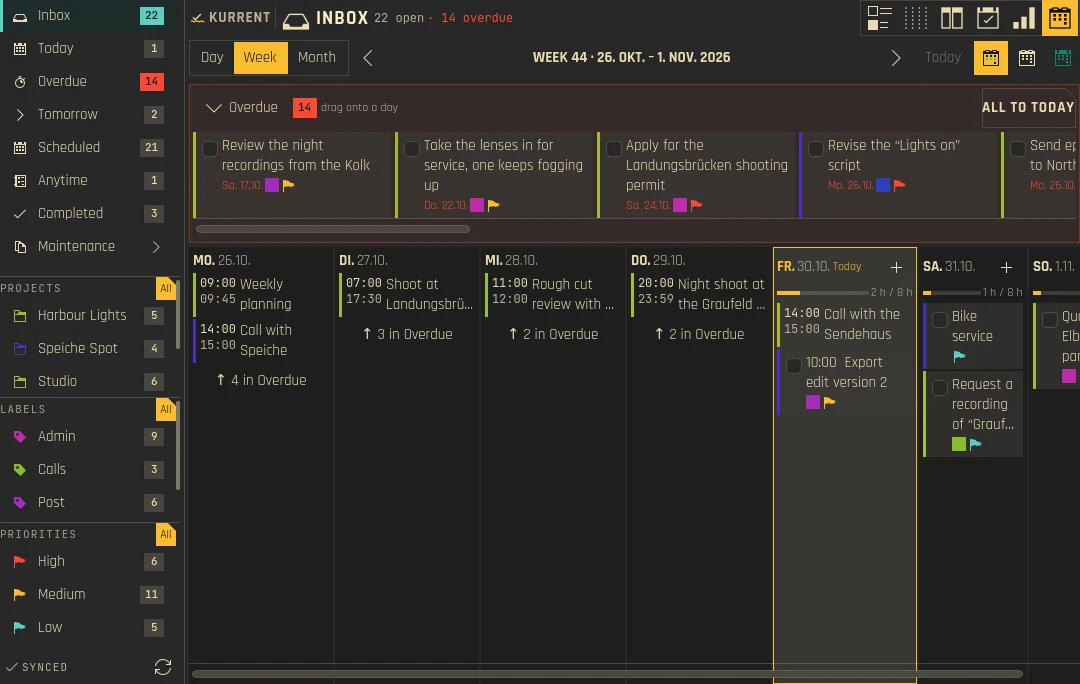
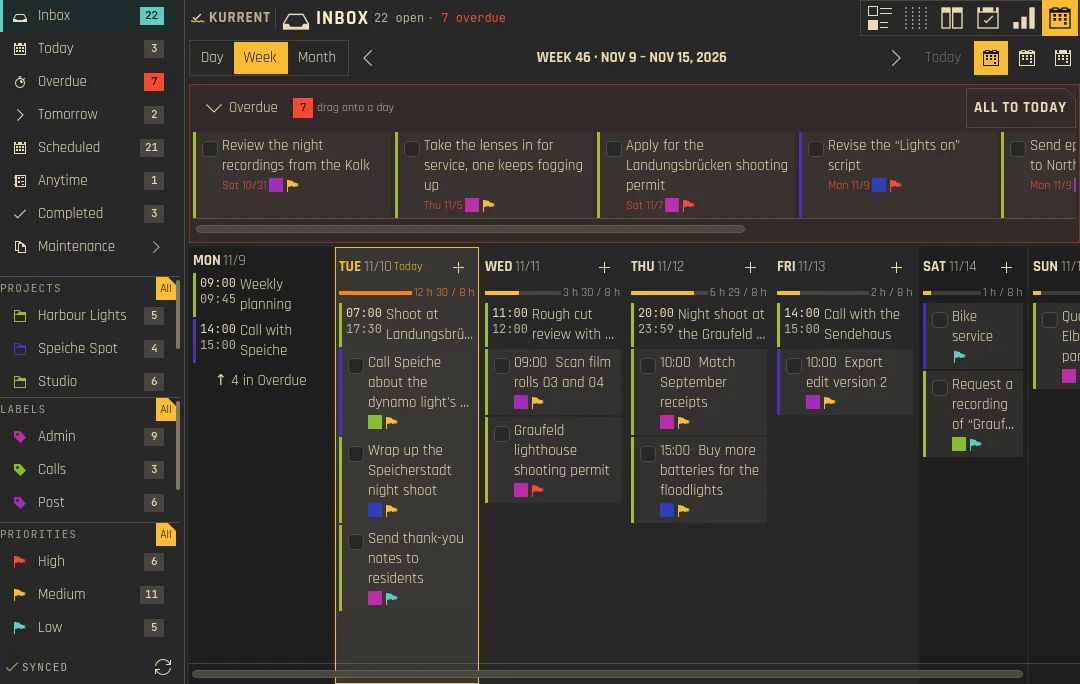
Release 0.6.0
Version 0.6.0 in CMake and metadata.json, changelog section, landing page
entry with a week screenshot and a rebuild-time chart, 0.3.1 moved into
the older releases, footer v0.6.0.

Screenshots retaken for the release. The demo now sets LC_ALL per
language: dates follow the locale, not LANGUAGE, so the English shots
showed German dates on a German machine.

diff --git a/docs/index.html b/docs/index.html
@@ -144,6 +144,30 @@
   <h2 lang="en">Changes</h2><h2 lang="de">Änderungen</h2>
   <p lang="en">What each release brought, newest first. Every release adds an entry here and the same notes on the release page.</p><p lang="de">Was jede Version gebracht hat, die neueste zuerst. Jede Version bekommt hier einen Eintrag und dieselben Notizen auf der Release-Seite.</p>
   <ol class="changelog">
+    <li class="release" id="v0.6.0">
+      <div class="release-head"><b class="release-version">0.6.0</b><time datetime="2026-11-10"><span lang="en">10 Nov 2026</span><span lang="de">10. Nov. 2026</span></time></div>
+      <div class="release-body">
+        <p class="release-lead"><span lang="en">Recurring tasks join the Agenda: drag them to another day like any other task. Dates now read in your language's order, large task lists react about twice as fast, and the terminal client comes with the download.</span><span lang="de">Wiederkehrende Aufgaben gehören jetzt zur Agenda: Du ziehst sie wie jede andere Aufgabe auf einen anderen Tag. Daten stehen in der Reihenfolge deiner Sprache, große Aufgabenlisten reagieren etwa doppelt so schnell, und der Terminal-Client ist im Download dabei.</span></p>
+        <div class="release-group" data-kind="new"><h3><span lang="en">New</span><span lang="de">Neu</span></h3><ul>
+          <li><span lang="en">Agenda, Week and Month: recurring tasks can be dragged to another day too, and "All to today" takes them along (one undo brings them all back). Only this occurrence moves; the series keeps its rule, and when you check the task off, the next occurrence follows the original day. The inspector's Today, Tomorrow and Next week and the Day view do the same for a recurring task; its time of day stays the series' time.</span><span lang="de">Agenda, Woche und Monat: Auch wiederkehrende Aufgaben lassen sich auf einen anderen Tag ziehen, und „Alle auf heute“ nimmt sie mit (ein Rückgängig holt alle zurück). Verschoben wird nur dieses Vorkommen; die Serie behält ihre Regel, und beim Abhaken richtet sich das nächste Vorkommen nach dem ursprünglichen Tag. „Heute“, „Morgen“ und „Nächste Woche“ im Inspektor und die Tagesansicht machen es bei wiederkehrenden Aufgaben genauso; die Uhrzeit bleibt die der Serie.</span></li>
+        </ul></div>
+        <div class="release-group" data-kind="improved"><h3><span lang="en">Improved</span><span lang="de">Verbessert</span></h3><ul>
+          <li><span lang="en"><code>kurrent-tui</code> now comes with the prebuilt download, so the one-line installer sets it up too; before, only source builds had it.</span><span lang="de"><code>kurrent-tui</code> ist jetzt im fertigen Download enthalten, der Einzeiler installiert ihn also mit; vorher hatten ihn nur Quellbuilds.</span></li>
+          <li><span lang="en">The undo button's tooltip ("Undo edit of …") is translated into all five languages; it was always English.</span><span lang="de">Der Tooltip des Rückgängig-Knopfs („Bearbeiten von … rückgängig machen“) ist in alle fünf Sprachen übersetzt; er war immer Englisch.</span></li>
+          <li><span lang="en">Large task lists react faster: rebuilding the list after a view switch, a filter or a search takes about half as long, and the sidebar counts no longer hold up the interface.</span><span lang="de">Große Aufgabenlisten reagieren schneller: Nach einem Ansichtswechsel, einem Filter oder einer Suche ist die Liste in etwa der halben Zeit neu aufgebaut, und die Zähler in der Seitenleiste halten die Oberfläche nicht mehr auf.</span></li>
+        </ul></div>
+        <div class="release-group" data-kind="fixed"><h3><span lang="en">Fixed</span><span lang="de">Behoben</span></h3><ul>
+          <li><span lang="en">A list could keep showing an old view or an old search: a change made while the list was still being rebuilt was dropped, and the busy indicator stayed on.</span><span lang="de">Eine Liste konnte eine alte Ansicht oder eine alte Suche weiter zeigen: Eine Änderung, die kam, während die Liste noch neu aufgebaut wurde, ging verloren, und die Ladeanzeige blieb an.</span></li>
+          <li><span lang="en">Recurring tasks: checking off an all-day series could put the next occurrence on the wrong day around a change to or from daylight saving time, and a series edited in KOrganizer could stay on the occurrence you had just checked off. Undo restores a series' dates correctly.</span><span lang="de">Wiederkehrende Aufgaben: Beim Abhaken einer ganztägigen Serie konnte das nächste Vorkommen um die Zeitumstellung herum auf dem falschen Tag landen, und eine in KOrganizer bearbeitete Serie konnte auf dem gerade abgehakten Vorkommen stehen bleiben. Rückgängig stellt die Daten einer Serie richtig wieder her.</span></li>
+          <li><span lang="en">Dates follow your language's order: the Agenda, calendar, heatmap, inspector and the terminal client wrote every date in German order, so English read "Thursday, 29. October" and Japanese "木曜日, 29. 10月"; now "Thursday, October 29" and "10月29日木曜日". Month headings use the month's own name (Russian "октябрь 2026 г.", not "октября"), and short dates put the weekday where your language does.</span><span lang="de">Datumsangaben folgen der Reihenfolge deiner Sprache: Agenda, Kalender, Heatmap, Inspektor und Terminal-Client schrieben jedes Datum in deutscher Reihenfolge, auf Englisch also „Thursday, 29. October“ und auf Japanisch „木曜日, 29. 10月“; jetzt „Thursday, October 29“ und „10月29日木曜日“. Monatsüberschriften nehmen die Grundform des Monats (russisch „октябрь 2026 г.“, nicht „октября“), und kurze Daten stellen den Wochentag dorthin, wo deine Sprache ihn hat.</span></li>
+        </ul></div>
+        <div class="release-shots">
+          <figure><img lang="en" src="shots/release-0.6.0-agenda-week-en.webp" alt="The Agenda week in English: dates in English order, such as Nov 9 – Nov 15 and Mon 11/9" loading="lazy"><img lang="de" src="shots/release-0.6.0-agenda-week-de.webp" alt="Die Agenda-Woche auf Deutsch: Daten in deutscher Reihenfolge, etwa 9. Nov. – 15. Nov. und Mo. 9.11." loading="lazy"><figcaption><span lang="en">Agenda, week: dates in your language's order</span><span lang="de">Agenda, Woche: Daten in der Reihenfolge deiner Sprache</span></figcaption></figure>
+          <figure><svg class="chart" viewBox="0 0 320 150" role="img" aria-label="Milliseconds for 5000 tasks: list rebuild 45 in 0.5.0, 17 in 0.6.0; sidebar counts on the UI thread 9.7 in 0.5.0, 0 in 0.6.0"><line class="grid" x1="118" y1="22" x2="118" y2="118"/><text x="118" y="128" text-anchor="middle">0</text><line class="grid" x1="156" y1="22" x2="156" y2="118"/><text x="156" y="128" text-anchor="middle">10</text><line class="grid" x1="194" y1="22" x2="194" y2="118"/><text x="194" y="128" text-anchor="middle">20</text><line class="grid" x1="232" y1="22" x2="232" y2="118"/><text x="232" y="128" text-anchor="middle">30</text><line class="grid" x1="270" y1="22" x2="270" y2="118"/><text x="270" y="128" text-anchor="middle">40</text><line class="grid" x1="308" y1="22" x2="308" y2="118"/><text x="308" y="128" text-anchor="middle">50</text><rect class="s2" x="118" y="6" width="8" height="8"/><text x="130" y="13">0.5.0</text><rect class="s4" x="178" y="6" width="8" height="8"/><text x="190" y="13">0.6.0</text><text x="112" y="47" text-anchor="end"><tspan lang="en">List rebuild</tspan><tspan lang="de">Liste neu aufbauen</tspan></text><rect class="s2" x="118" y="34" width="171.0" height="11"/><text x="293.0" y="43">45</text><rect class="s4" x="118" y="48" width="64.6" height="11"/><text x="186.6" y="57">17</text><text x="112" y="97" text-anchor="end"><tspan lang="en">Sidebar counts (UI)</tspan><tspan lang="de">Zähler Seitenleiste (UI)</tspan></text><rect class="s2" x="118" y="84" width="36.9" height="11"/><text x="158.9" y="93">9.7</text><rect class="s4" x="118" y="98" width="0.0" height="11"/><text x="122.0" y="107">0</text><text x="213" y="144" text-anchor="middle"><tspan lang="en">ms, 5000 tasks (fastest of 21 runs)</tspan><tspan lang="de">ms, 5000 Aufgaben (schnellster von 21 Läufen)</tspan></text></svg><figcaption><span lang="en">Rebuild time</span><span lang="de">Aufbauzeit</span></figcaption></figure>
+        </div>
+        <a class="release-notes" href="https://github.com/shrippen/Kurrent/compare/v0.5.0...v0.6.0"><span lang="en">All changes since 0.5.0 →</span><span lang="de">Alle Änderungen seit 0.5.0 →</span></a>
+      </div>
+    </li>
     <li class="release" id="v0.5.0">
       <div class="release-head"><b class="release-version">0.5.0</b><time datetime="2026-10-30"><span lang="en">30 Oct 2026</span><span lang="de">30. Okt. 2026</span></time></div>
       <div class="release-body">
@@ -240,19 +264,19 @@
         <a class="release-notes" href="https://github.com/shrippen/Kurrent/compare/v0.3.1...v0.4.0"><span lang="en">All changes since 0.3.1 →</span><span lang="de">Alle Änderungen seit 0.3.1 →</span></a>
       </div>
     </li>
-    <li class="release" id="v0.3.1">
-      <div class="release-head"><b class="release-version">0.3.1</b><time datetime="2026-08-29"><span lang="en">29 Aug 2026</span><span lang="de">29. Aug. 2026</span></time></div>
-      <div class="release-body">
-        <p class="release-lead"><span lang="en">A translation release: every string of the widget is now translated.</span><span lang="de">Eine Übersetzungsversion: Jeder Text im Widget ist jetzt übersetzt.</span></p>
-        <div class="release-group" data-kind="fixed"><h3><span lang="en">Fixed</span><span lang="de">Behoben</span></h3><ul>
-          <li><span lang="en">All 304 interface strings are translated into German, Spanish, French, Japanese and Simplified Chinese; before, about 158 of them fell back to English.</span><span lang="de">Alle 304 Texte der Oberfläche sind ins Deutsche, Spanische, Französische, Japanische und vereinfachte Chinesisch übersetzt; vorher fielen etwa 158 davon auf Englisch zurück.</span></li>
-        </ul></div>
-        <a class="release-notes" href="https://github.com/shrippen/Kurrent/compare/v0.3...v0.3.1"><span lang="en">All changes since 0.3 →</span><span lang="de">Alle Änderungen seit 0.3 →</span></a>
-      </div>
-    </li>
   </ol>
   <details class="changelog-more"><summary><span lang="en">Older releases</span><span lang="de">Ältere Versionen</span></summary>
     <ol class="changelog">
+      <li class="release" id="v0.3.1">
+        <div class="release-head"><b class="release-version">0.3.1</b><time datetime="2026-08-29"><span lang="en">29 Aug 2026</span><span lang="de">29. Aug. 2026</span></time></div>
+        <div class="release-body">
+          <p class="release-lead"><span lang="en">A translation release: every string of the widget is now translated.</span><span lang="de">Eine Übersetzungsversion: Jeder Text im Widget ist jetzt übersetzt.</span></p>
+          <div class="release-group" data-kind="fixed"><h3><span lang="en">Fixed</span><span lang="de">Behoben</span></h3><ul>
+            <li><span lang="en">All 304 interface strings are translated into German, Spanish, French, Japanese and Simplified Chinese; before, about 158 of them fell back to English.</span><span lang="de">Alle 304 Texte der Oberfläche sind ins Deutsche, Spanische, Französische, Japanische und vereinfachte Chinesisch übersetzt; vorher fielen etwa 158 davon auf Englisch zurück.</span></li>
+          </ul></div>
+          <a class="release-notes" href="https://github.com/shrippen/Kurrent/compare/v0.3...v0.3.1"><span lang="en">All changes since 0.3 →</span><span lang="de">Alle Änderungen seit 0.3 →</span></a>
+        </div>
+      </li>
       <li class="release" id="v0.3">
         <div class="release-head"><b class="release-version">0.3</b><time datetime="2026-08-29"><span lang="en">29 Aug 2026</span><span lang="de">29. Aug. 2026</span></time></div>
         <div class="release-body">
@@ -360,7 +384,7 @@
       <div><h4><span lang="en">Source</span><span lang="de">Quelltext</span></h4><a href="https://github.com/shrippen/Kurrent">GitHub</a><a href="https://github.com/shrippen/Kurrent/issues">Issues</a><a href="https://github.com/shrippen/Kurrent/releases">Releases</a></div>
     </nav>
   </div>
-  <div class="foot-meta"><p>GPL-3.0-or-later · shrippen · <a href="#changes">v0.5.0</a></p></div>
+  <div class="foot-meta"><p>GPL-3.0-or-later · shrippen · <a href="#changes">v0.6.0</a></p></div>
 </footer>
 
 </body>

diff --git a/CHANGELOG.md b/CHANGELOG.md
@@ -2,7 +2,11 @@
 
 ## [Unreleased]
 
+## [0.6.0] — 2026-11-10
+
 ### English
+
+Recurring tasks join the Agenda: drag them to another day like any other task. Dates now read in your language's order, large task lists react about twice as fast, and the terminal client comes with the download.
 
 #### New
 - Agenda, Week and Month: recurring tasks can be dragged to another day too, and "All to today" takes them along (one undo brings them all back). Only this occurrence moves; the series keeps its rule, and when you check the task off, the next occurrence follows the original day. The inspector's Today, Tomorrow and Next week and the Day view do the same for a recurring task; its time of day stays the series' time.
@@ -17,7 +21,11 @@
 - Recurring tasks: checking off an all-day series could put the next occurrence on the wrong day around a change to or from daylight saving time, and a series edited in KOrganizer could stay on the occurrence you had just checked off. Undo restores a series' dates correctly.
 - Dates follow your language's order: the Agenda, calendar, heatmap, inspector and the terminal client wrote every date in German order, so English read "Thursday, 29. October" and Japanese "木曜日, 29. 10月"; now "Thursday, October 29" and "10月29日木曜日". Month headings use the month's own name (Russian "октябрь 2026 г.", not "октября"), and short dates put the weekday where your language does.
 
+All changes: https://github.com/shrippen/Kurrent/compare/v0.5.0...v0.6.0
+
 ### Deutsch
+
+Wiederkehrende Aufgaben gehören jetzt zur Agenda: Du ziehst sie wie jede andere Aufgabe auf einen anderen Tag. Daten stehen in der Reihenfolge deiner Sprache, große Aufgabenlisten reagieren etwa doppelt so schnell, und der Terminal-Client ist im Download dabei.
 
 #### Neu
 - Agenda, Woche und Monat: Auch wiederkehrende Aufgaben lassen sich auf einen anderen Tag ziehen, und „Alle auf heute“ nimmt sie mit (ein Rückgängig holt alle zurück). Verschoben wird nur dieses Vorkommen; die Serie behält ihre Regel, und beim Abhaken richtet sich das nächste Vorkommen nach dem ursprünglichen Tag. „Heute“, „Morgen“ und „Nächste Woche“ im Inspektor und die Tagesansicht machen es bei wiederkehrenden Aufgaben genauso; die Uhrzeit bleibt die der Serie.
